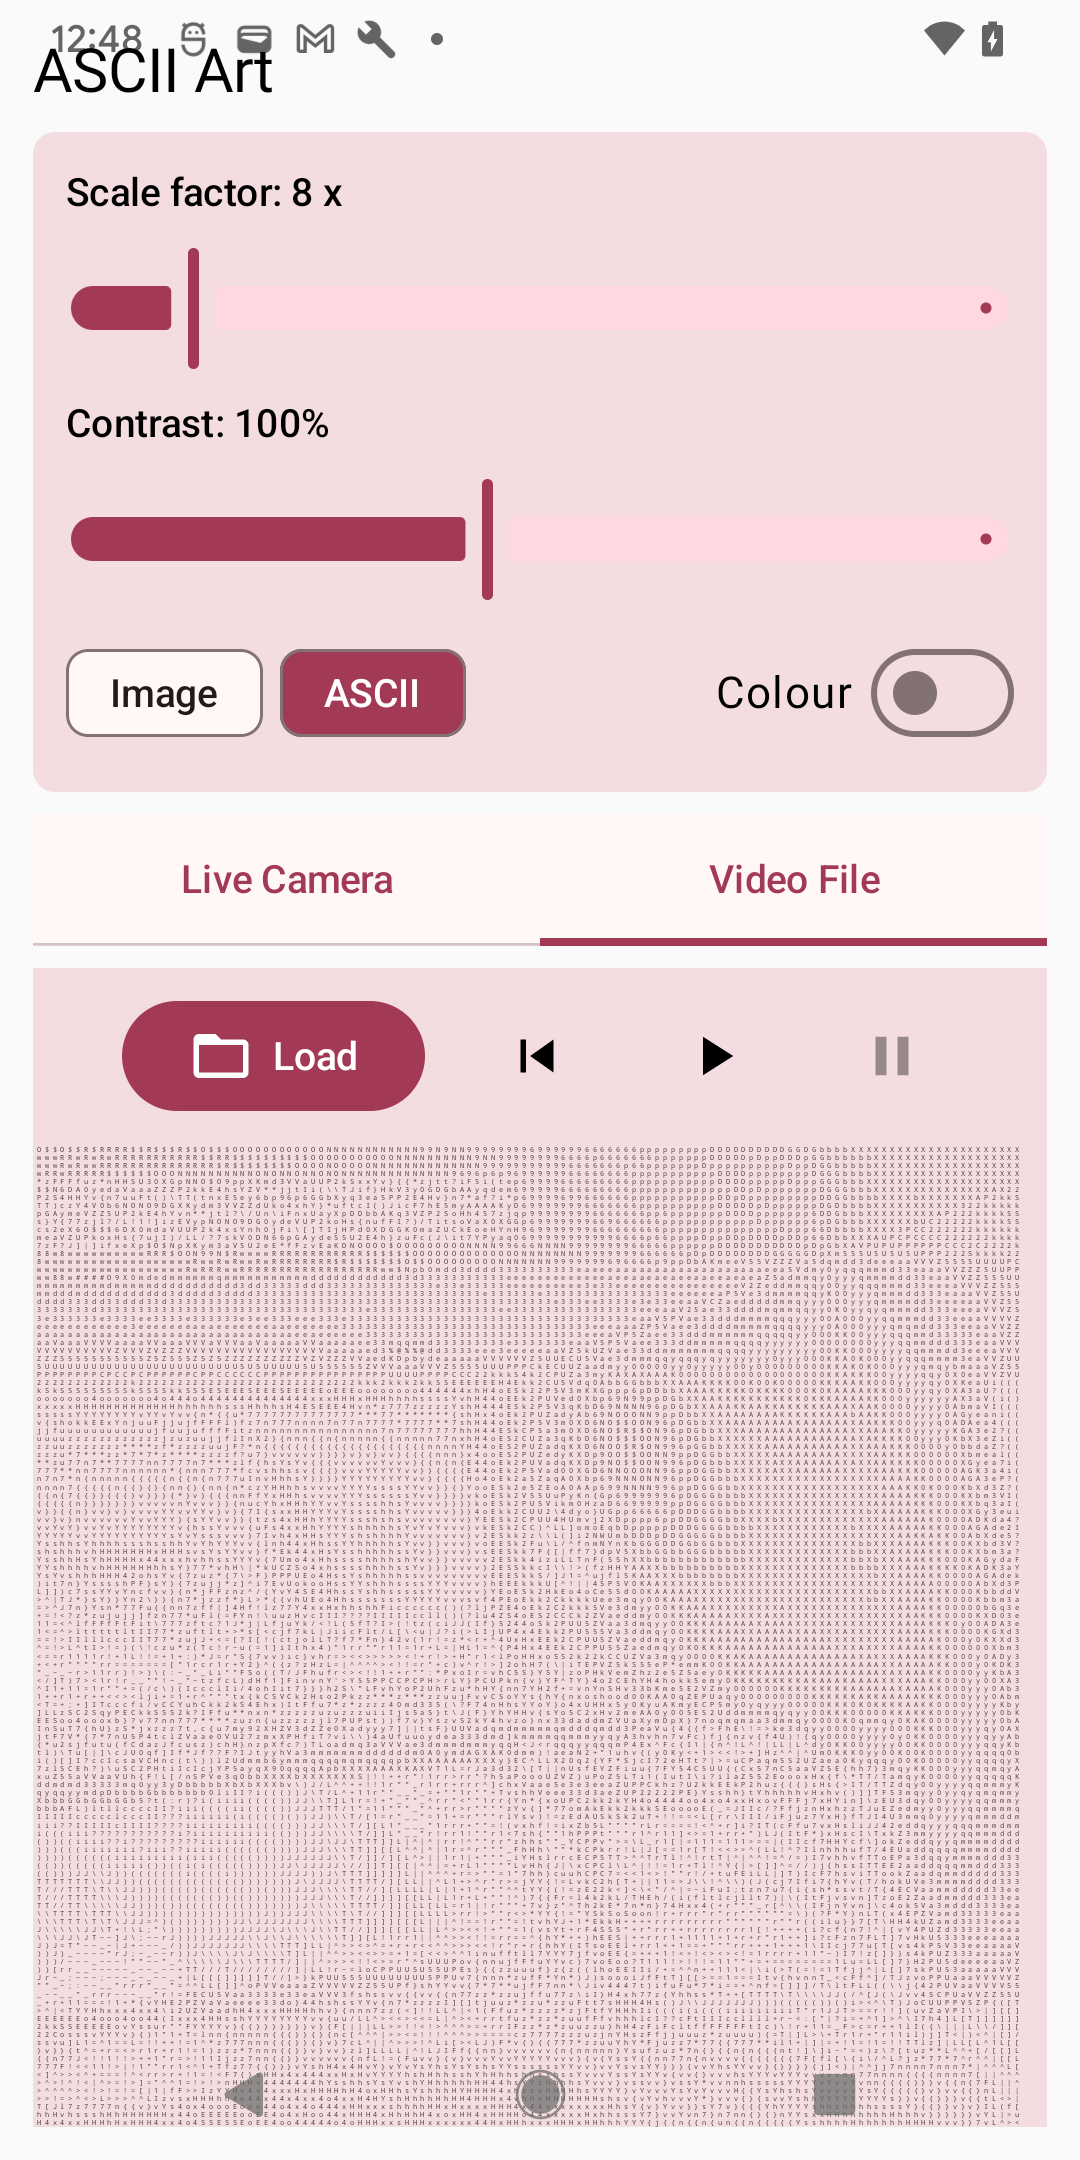
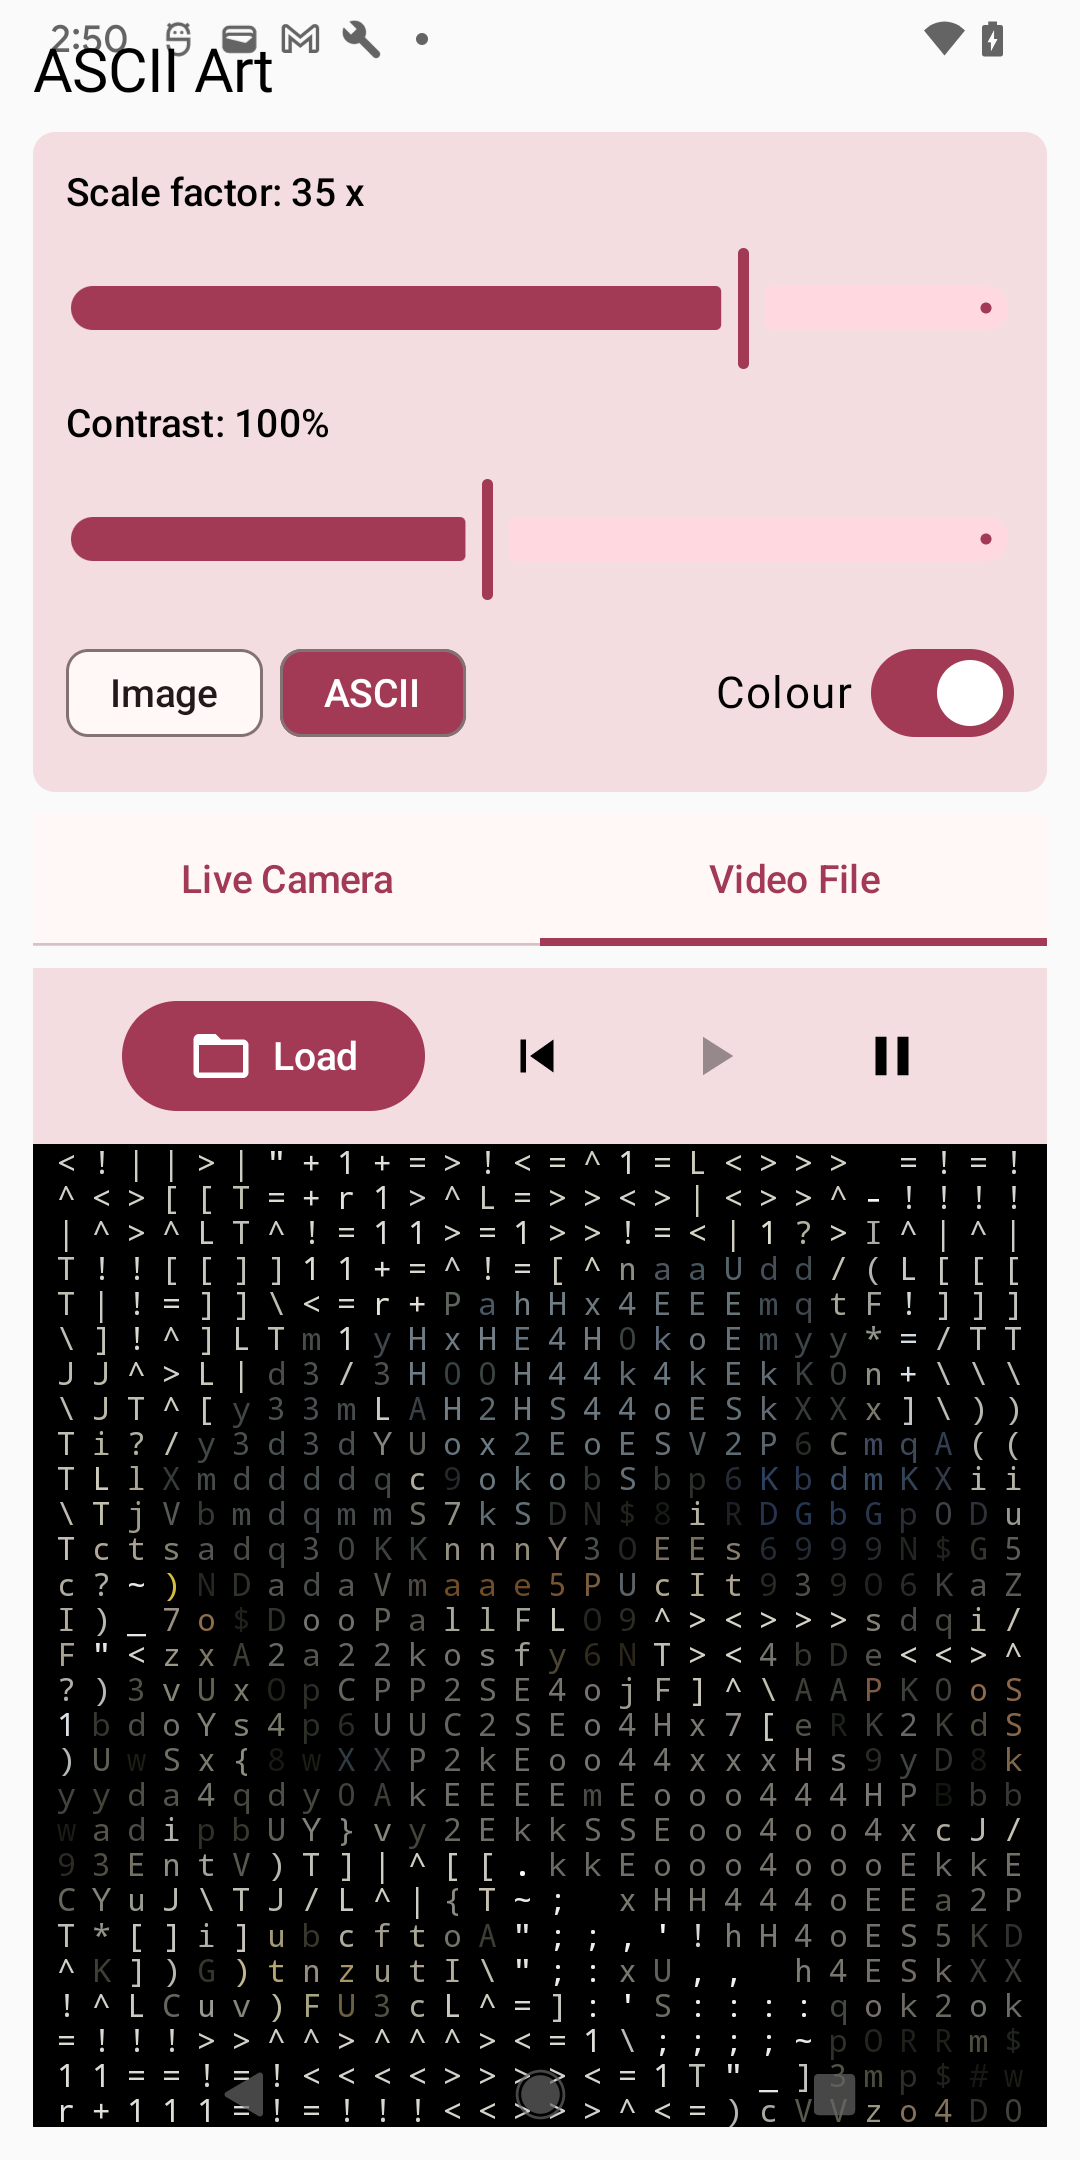
Update README and screenshots for current implementation
- New screenshots showing black background with coloured white-on-black ASCII art
- Video File Pipeline: replace MediaMetadataRetriever with TextureView.getBitmap() + bitmap pool
- ASCII mapping algorithm: document 255-gray inversion for white-on-black display
- Colour Mode Sequence: remove stale 'Create colored bitmap from grid' step
- Video File Processing Sequence: replace MediaMetadataRetriever with TextureView participant
- ImageProcessor: remove 'Stateless' label; now maintains pre-allocated pixel buffers
- AsciiArt: remove 'Stateless' label; caches sorted character set per preset

diff --git a/README.md b/README.md
@@ -42,7 +42,7 @@ This project was created as an exploration of **GitHub Copilot’s capability** 
 ### Video File Pipeline
 1. Load video file using ExoPlayer 2.19.1.
 2. Poll playback position at ~60Hz to detect new frames.
-3. Extract frames using `MediaMetadataRetriever.getFrameAtTime()`.
+3. Extract frames via `TextureView.getBitmap()` from a hidden zero-alpha `TextureView` that ExoPlayer renders to. Bitmaps are reused from a pool (`ConcurrentLinkedQueue`) to eliminate per-frame allocation.
 4. Process frames through the same pipeline as live camera:
    - Downsample according to scale factor
    - Apply contrast adjustment
@@ -52,8 +52,9 @@ This project was created as an exploration of **GitHub Copilot’s capability** 
 ## ASCII mapping algorithm
 For each de-res cell:
 1. Use the cell grayscale intensity (0..255).
-2. Map that value to an index in a density-sorted printable ASCII character list.
-3. Render the selected character at the corresponding on-screen cell bounds.
+2. Invert the intensity: `mappedValue = 255 - intensity`. This ensures that bright areas of the scene map to dense characters (e.g. `@`, `#`) and dark areas map to sparse characters (e.g. space, `.`), which is correct for white-on-black display.
+3. Map that inverted value to an index in a density-sorted printable ASCII character list.
+4. Render the selected character at the corresponding on-screen cell bounds.
 
 Character choice logic does **not** change when Colour is enabled; colour is applied as an additional rendering layer.
 
@@ -127,7 +128,8 @@ sequenceDiagram
     CFA->>CFA: Rotate bitmap to device orientation
     CFA->>CFA: Rotate color grid to device orientation
     alt Image Mode + Colour
-        CFA->>CFA: Create colored bitmap from grid
+        CFA->>UI: onFrameProcessed(displayBitmap, null, colorGrid)
+        UI->>UI: Draw colored rects directly from colorGrid (no bitmap created)
     else ASCII Mode + Colour
         CFA->>AA: toAsciiText(bitmap)
         AA-->>CFA: ASCII text
@@ -209,9 +211,9 @@ classDiagram
 | `AsciiPreviewScreen` | Root composable screen. Owns all shared UI state — scale factor, contrast, colour toggle, display mode, and the current live frame — and renders the control panel plus the tab selector. |
 | `CameraAnalysisPipeline` | Private composable that wires up CameraX `ImageAnalysis`, binds it to the `LifecycleOwner`, and forwards each raw camera frame to a `CameraFrameAnalyzer` instance. |
 | `CameraFrameAnalyzer` | Implements `ImageAnalysis.Analyzer`. Receives raw YUV `ImageProxy` frames from CameraX, delegates pixel processing to `ImageProcessor`, applies the sensor-orientation rotation correction, optionally generates ASCII text, and posts results to the UI thread. |
-| `ImageProcessor` | Stateless singleton. Downsamples luma data from a YUV `ImageProxy` or an existing `Bitmap`, applies contrast adjustment, and produces a grayscale `Bitmap` plus an optional per-cell ARGB colour array. |
+| `ImageProcessor` | Singleton. Downsamples luma data from a YUV `ImageProxy` or an existing `Bitmap`, applies contrast adjustment, and produces a grayscale `Bitmap` plus an optional per-cell ARGB colour array. Maintains pre-allocated `IntArray` pixel buffers (grown only on dimension increase) to eliminate per-frame heap allocation. |
 | `FrameProcessingResult` | Immutable data class that carries the output of a single `ImageProcessor` call: a downsampled grayscale `Bitmap` and an optional `IntArray` of per-cell ARGB colours. |
-| `AsciiArt` | Stateless singleton. Converts a grayscale bitmap to a multi-line ASCII `String` by mapping each pixel's intensity to a character chosen from a density-sorted printable ASCII set. Caches the sorted character set per preset. |
+| `AsciiArt` | Singleton. Converts a grayscale bitmap to a multi-line ASCII `String` by mapping each pixel's inverted intensity (`255 - gray`) to a character chosen from a density-sorted printable ASCII set. Caches the sorted character set per preset to avoid re-measuring on every frame. |
 | `AsciiDisplayMode` | Enum with two values — `IMAGE` (render de-res bitmap cells) and `ASCII` (render character glyphs) — shared across both tabs. |
 | `ExoPlayerVideoFileTab` | Composable for the Video File tab. Creates and manages the `ExoPlayer` instance and its lifecycle. Provides a persistent control bar (Load, Restart, Play, Pause) visible in both IMAGE and ASCII modes. Delegates frame extraction to `ExoPlayerFrameListener` and renders the ASCII or image output. |
 | `ExoPlayerFrameListener` | Bridges ExoPlayer playback and ASCII processing. Polls the player position at ~60 Hz on the main thread, captures rendered frames via `TextureView.getBitmap()` into a `Channel<Bitmap>`, and processes them on an IO thread via `ImageProcessor` and `AsciiArt`. |
@@ -222,14 +224,14 @@ classDiagram
 sequenceDiagram
     participant UI as ExoPlayerVideoFileTab
     participant EFL as ExoPlayerFrameListener
-    participant EMR as MediaMetadataRetriever
+    participant TV as TextureView (hidden)
     participant IP as ImageProcessor
     participant AA as AsciiArt
     
     UI->>EFL: Create listener with provider lambdas
     EFL->>EFL: Start polling at ~60Hz
-    EFL->>EMR: getFrameAtTime(timeMs)
-    EMR-->>EFL: Bitmap at timeMs
+    EFL->>TV: getBitmap(pooledBitmap)
+    TV-->>EFL: Bitmap (reused from pool)
     EFL->>IP: processBitmap(bitmap, scaleFactor, contrastFactor)
     IP-->>EFL: FrameProcessingResult (grayscale, colors)
     EFL->>AA: toAsciiText(grayscaleBitmap)
